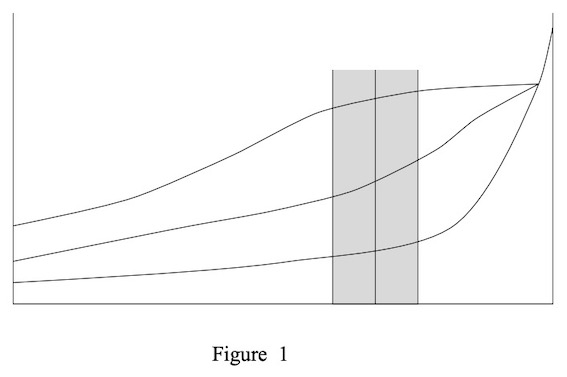
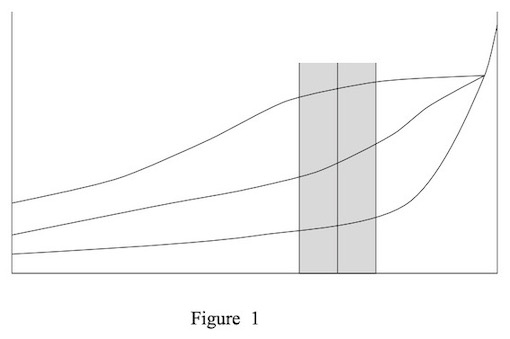
암달의 법칙 문서를 대폭 업데이트하라

Changed region(s): [[0.3824, 0.9145, 0.4706, 0.9735]]

diff --git a/_wiki/amdahl-s-law.md b/_wiki/amdahl-s-law.md
@@ -1,56 +1,241 @@
 ---
 layout  : wiki
 title   : 암달의 법칙 (Amdahl's law)
-summary : 
+summary : S = 1 / ((1-f) + f/s)
 date    : 2020-06-19 23:31:46 +0900
-updated : 2020-06-21 01:02:04 +0900
-tag     : 
+updated : 2020-06-21 11:36:04 +0900
+tag     : performance proverb law
 toc     : true
-public  : false
+public  : true
 parent  : [[proverb]]
 latex   : true
 ---
 * TOC
 {:toc}
 
-## 개요
+## 역사
 
-- 진 암달(Gene Amdahl, 1922 ~ 2015)
-    - 미국의 컴퓨터 공학자.
-    - IBM에서 메인프레임 개발에 크게 공헌했다.
+Gene Amdahl, 1922 ~ 2015
+
+- 미국의 컴퓨터 공학자.
+- IBM에서 메인프레임 개발에 크게 공헌했다.
+
+암달의 법칙
+
+- "Validity of the single processor approach to achieving large scale computing capabilitie"
+    - AFIPS spring joint computer conference, 1967
+    - [pdf][pdf1], [pdf][pdf2]
+- 유명한 수식은 논문에는 포함되어 있지 않다.
+- 약 2~3장 분량의 짧은 논문이고, 읽어보면 단순한 그래프 하나가 첨부되어 있다.
+
+![]( /post-img/amdahl-s-law/figure.jpg )
+
+다음은 암달의 논문에 수록된 그래프를 SSCS News의 에디터들이 다시 그린 것이다.
+
+![]( /post-img/amdahl-s-law/new-figure.jpg )
+
+
 
 ## 정의
 
-전체 작업의 $$P$$%에 해당하는 부분의 성능을 $$S$$배 향상시켰을 때, 전체의 성능 향상 최대값은 다음과 같다.
+>
+Amdahl' s Law summarizes the performance improvement of some process, such as a computer program. It considers that in order to improve performance (time to complete the process), only a part of the entire process is usually improved. It shows that the improvement is limited by the fraction of time the improved part is used. It can be stated in terms of two parameters: , the fraction of time spent in the improved part, and the speedup , how many times faster the improved part performs. Amdahl's Law gives how many times faster the entire process will be as $$ S_\text{overall} = { 1 \over (1-f) + \frac{f}{s} }$$.
+
+위의 글은 Wolfram Demonstrations Project Amdahl's Law의 글을 인용한 것이다.[^wolfram-demo]
+
+내용을 정리해 보자면 다음과 같다.
+
+**암달의 법칙은 컴퓨터 프로그램 같은 프로세스의 성능 향상에 대한 정보를 제공한다.**
+
+- 암달의 법칙에서 다루는 성능(performance)은 시간이 기준이다.
+    - 프로세스 완료까지의 소요 시간.
+- 일반적으로 성능을 향상시키기 위해, 전체가 아닌 일부 프로세스의 개선 작업이 이루어지곤 한다.
+    - 개선된 부분은 시스템의 일부이므로, 사용되는 시간의 비율 때문에 개선에 한계점이 있다.
+
+**암달의 법칙은 두 개의 매개변수로 이러한 현상을 설명한다.**
+
+- $$f$$: 전체 시스템 시간에서 개선된 부분이 차지하고 있는 시간의 비율.
+- $$S$$: 성능이 몇 배 향상됐는지.
+
+**암달의 법칙은 이를 통해 전체 프로세스가 몇 배 빨라졌는지를 다음 식으로 보여준다.**
+
+$$ S_\text{latency} = { 1 \over (1-f) + \frac{f}{s} }$$
+
+### 예제: 함수 하나의 성능을 2배로 개선한 결과
+
+다음과 같은 프로파일 정보가 있다고 하자.
+
+| 항목                    | 수행 시간 |
+|-------------------------|-----------|
+| `execute` 함수          | 60분      |
+| `execute`외의 모든 부분 | 4분       |
+| 전체 프로그램           | 10분      |
+
+그래서 A 개발자가 `execute` 함수를 2배 빠르게 개선해서, 3분 만에 끝나게 만들었다고 하자.
+
+이 정보를 통해 두 파라미터의 값이 다음과 같다는 사실을 알 수 있다.
+
+- 전체 시스템에서 `execute`의 비율. $$f = {6 \over 10} = 0.6 $$.
+- `execute`가 몇 배 빨라졌는지. $$s = 2$$.
+
+이제 식에 대입하면 된다.
 
 $$
-S_{\text{latency}}(s) = { 1 \over (1-p) + \frac{p}{s} }
+S = { 1 \over ( 1 - 0.6 ) + \frac{0.6}{2} } = { 1 \over 0.7 } = 1.4285...
 $$
 
+`execute`를 2배 빠르게 만든 결과 시스템 전체의 성능이 $$10 \over 7$$배, 즉 약 `1.4285...`배 향상됐다는 것을 알 수 있다.
 
-## From: Beautiful Code
+개선 작업 이후의 타임 테이블을 다음과 같이 작성해 보면 간단하게 식을 검증해 볼 수 있다.
+
+| 항목                    | 수행 시간(before) | 수행 시간(after)    |
+|-------------------------|-------------------|---------------------|
+| `execute`외의 모든 부분 | 4분               | 4분 (변하지 않았음) |
+| `execute` 함수          | 6분               | 3분 (2배 빨라짐)    |
+| 전체 프로그램           | 10분              | 7분                 |
+
+전체 프로그램의 수행 시간이 `10`분에서 `7`분이 되었으므로 $$10 \over 7$$배로 성능이 향상됐다.
+
+### 예제: 성능 향상의 한계
+
+한편, A 개발자의 옆 팀에서 일하고 있던 B 개발자는 `execute` 함수가 필요없다는 사실을 발견했다.
+
+그래서 `execute` 함수의 내용을 삭제해서 아무 일도 하지 않게 만들었고, 전체 수행시간이 4분으로 감소됐다고 하자.
+
+그렇다면 시스템 전체의 성능은 $$10 \over 4$$ 배, 즉 `2.5`배 향상되었을 것이다.
+
+| 항목                    | 수행 시간(before) | 수행 시간(after)            |
+|-------------------------|-------------------|-----------------------------|
+| `execute`외의 모든 부분 | 4분               | 4분 (변하지 않았음)         |
+| `execute` 함수          | 6분               | 0분 (더이상 빨라질 수 없음) |
+| 전체 프로그램           | 10분              | 4분                         |
+
+식으로도 나타내 보자.
+
+- 전체 시스템에서 `execute`의 비율. $$f = {6 \over 10} = 0.6 $$.
+- `execute`가 몇 배 빨라졌는지. $$s = \lim_{n \to \infty} n$$.
+
+$$
+S = \lim_{n \to \infty}{ 1 \over ( 1 - 0.6 ) + \frac{0.6}{n} } = { 1 \over 0.4 } = 2.5
+$$
+
+이 결과를 통해 `execute` 함수를 개선해서 얻을 수 있는 시스템 전체의 성능 향상 한계가 `2.5`배라는 사실을 알 수 있다.
+
+## 병렬 처리 버전
+
+위의 식은 두 파라미터의 정의를 교체하면 병렬 버전으로도 의미를 갖는다.
+
+$$ S_\text{latency} = { 1 \over (1-f) + \frac{f}{n} } $$
+
+- $$f$$: 전체 시스템 시간에서 병렬화 가능한 부분이 차지하고 있는 시간의 비율.
+- $$n$$: 병렬화 (프로세서) 개수.
+
+이를 통해 이론적인 성능 향상의 최대값은 병렬화 가능한 부분이 얼마나 차지하는지에 영향을 받는다는 것을 알 수 있다.
+
+## 인용
+### From: 위키백과
+
+다음은 [영문 위키백과 Amdahl's law]( https://en.wikipedia.org/wiki/Amdahl%27s_law )에 첨부된 이미지이다.
+
+![]( /post-img/amdahl-s-law/800px-AmdahlsLaw.svg.png )
+
+> The theoretical speedup of the latency of the execution of a program as a function of the number of processors executing it, according to Amdahl's law. The speedup is limited by the serial part of the program. For example, if 95% of the program can be parallelized, the theoretical maximum speedup using parallel computing would be 20 times.
+
+[한국어 위키백과 암달의 법칙]( https://ko.wikipedia.org/wiki/%EC%95%94%EB%8B%AC%EC%9D%98_%EB%B2%95%EC%B9%99 )에는 다음과 같이 번역되어 있다.
+
+> 병렬 컴퓨팅에서 멀티 프로세서를 사용할 때 프로그램의 성능향상은 프로그램의 순차적인 부분에 의해 제한된다. 예를 들면, 프로그램의 95%가 병렬화 할 수 있다면 이론적인 최대 성능 향상은 아무리 많은 프로세서를 사용하더라도 최대 20배로 제한된다.
+
+### From: 프로그래머가 몰랐던 멀티코어 CPU 이야기
+
+- 암달의 법칙의 심오한 의미
+
+> 이 문제는 컴퓨터 공학에서 많은 것을 생각하게 해준다.
+아무리 최적화를 하더라도 이 최적화로부터 영향받지 않는 다른 부분으로 그 효과는 제한적일 수 있다는 것이다.
+이것이 바로 암달의 법칙(Amdahl's law)이다.
+>
+> (중략)
+>
+> 암달의 법칙은 간단하지만, 꽤 심오한 의미가 있다.
+프로그래머가 프로그램 성능을 개선할 때 헛된 곳에 시간을 낭비하지 말고 가장 많은 시간이 소요되는 곳에 집중해야 함을 말한다.
+프로세서 설계자 역시 자신이 최적화하려는 부분이 전체에서 얼마나 중요한지 잘 생각하고 우선순위를 결정해야 한다.
+결국 2장에서 이야기한 컴퓨터 구조 설계의 가장 중요한 법칙인, '흔한 경우를 빠르게 하라(Make the common case fast)'와 일맥상통한다.
+[^minjang-64]
+
+- 병렬 프로그래밍 버전
+
+> 따라서 암달의 법칙, 수식 4-1을 병렬 프로그래밍 버전으로 고치면 다음과 같다.
+>
+> $$ 1 \over (1-P) + \frac{P}{N} $$
+>
+> 수식 4-2에서 P는 전체 프로그램 중 병렬화 가능한 부분, N은 프로세서 개수를 가리킨다.
+물론 이 공식은 프로세서 N이 완벽하게 P만큼의 일을 병렬 처리한다는 매우 이상적인 가정을 하고 있다.
+암달의 법칙으로 병렬화 가능한 부분이 80%, 60%, 40%일 때 얻을 수 있는 이상적인 성능 향상 곡선을 생각해보자.
+그림 4-1에 이 결과가 나타나 있다.  
+> ![]( /post-img/amdahl-s-law/figure-4-1.jpg )  
+> 그림 4-1에서 보듯이 만약 자신의 프로그램 중 40%만 병렬화가 가능하다면 아무리 많은 프로세서가 있다 하더라도 성능 향상은 채 두 배도 될 수 없다. 또 80% 이상 병렬화 할 수 있다해도 성능을 다섯 배 이상 향상시킬 수는 없다.
+>
+> 병렬화 문제에서도 암달의 법칙은 매우 중요한 과제를 준다.
+병렬화 가능한 부분을 효율적으로 병렬화하여 최적의 성능을 얻는 것도 중요하지만,
+무엇보다 병렬화 가능한 부분을 극대화, 다시 말해 직렬로 처리해야 하는 부분($$1-P$$)을 줄이는 것이 핵심이다.
+과학이나 수학 관련 프로그램은 수행 시간의 대부분을 순환문이 차지하며 병렬 가능한 경우가 많다.
+어떤 경우는 완벽히 - 어떤 뮤텍스나 동기화도 필요 없이 - 병렬화가 가능하기도 하고
+어떤 때는 동기화가 필요하기도 하지만,
+어찌 되었든 수행 시간의 대부분이 병렬화로 도움을 얻을 수 있다.
+이런 응용프로그램은 $$1-P$$가 꽤 작다. 그러나 그렇지 않은 프로그램 역시 많다.
+컴파일러나 운영체제의 주요 코드는 연산이 직렬로 수행되는 경우가 많다.
+[^minjang-66]
+
+### From: Beautiful Code
 
 > 행렬 자료를 분할하다 보니 소위 암달의 법칙(Amdahl's law)이 말하는 규모가변성 문제가 금세 드러나게 되었다.
 암달의 법칙이란 한 계산에서 순차적인 부분에 소요되는 시간이 전체 수행 시간의 최소 하계를(따라서 병렬 처리로 얻을 수 있는 이득을) 결정한다는 것이다.
 바꾸어 말하자면, 대부분의 게산들이 독립적으로 수행되지 않는 한, 하드웨어 구성에 프로세서들을 추가한다고 해도 처리가 더 빨라지지는 않는 이득체감 지점에 도달한다는 것이다.
 [^beautiful-312]
 
+### From: 자바 병렬 프로그래밍
+
+> 대부분의 병렬 프로그램에는 병렬화할 수 있는 작업과 순차적으로 처리해야 하는 작업이 뒤섞인 단위 작업의 덩어리를 갖고 있다. 암달의 법칙(Amdahl's law)을 사용하면 병렬 작업과 순차 작업의 비율에 따라 하드웨어 자원을 추가로 투입했을 때 이론적으로 속도가 얼마나 빨라질지에 대한 예측 값을 얻을 수 있다. 암달의 법칙에 따르면, 순차적으로 실행돼야 하는 작업의 비율을 $$F$$라 하고 하드웨어에 꽂혀 있는 프로세서의 개수를 $$N$$이라고 할 때, 다음의 수식에 해당하는 정도까지 속도를 증가시킬 수 있다.
+>
+> $$ \text{ Speedup } \le { 1 \over F + \frac{ (1-F) }{N} } $$
+>
+> $$N$$이 무한대까지 증가할수록 속도 증가량은 최고 $$ 1/F$$ 까지 증가한다.
+$$1/F$$라는 속도 증가량은 순차적으로 실행돼야 하는 부분이 전체 작업의 50%를 차지한다고 할 때 프로세서를 아무리 많이 꽂는다 해도 겨우 두 배 빨라진다는 결과이다.
+그리고 순차적으로 실행해야 하는 부분이 전체의 10%에 해당한다면 최고 10배까지 속도를 증가시킬 수 있다고 예측할 수 있다.
+암달의 법칙을 활용하면 작업을 순차적으로 처리하는 부분이 많아질 때 느려지는 정도가 얼마만큼인지를 수치화할 수 있다.
+하드웨어에 CPU가 10개 꽂혀 있을 때, 10%의 순차 작업을 갖고 있는 프로그램은 최고 5.3배 만큼의 속도를 증가(CPU 활용도는 5.3배/10개 = 0.53, 즉 53%)시킬 수 있다.
+같은 상황에서 CPU를 100개를 꽂는다면 최대 9.2배까지 속도가 증가(CPU 활용도는 9.2배/100개 = 0.092, 즉 9.2%)할 것이라고 예상할 수 있다. 그러다 보니, 속도를 최대 10배까지 증가시키려면 CPU의 활용도가 너무나 비효율적으로 떨어질 수밖에 없다.
+>
+> 그림 11.1을 보면 순차적인 작업의 비율과 프로세서의 개수를 놓고 볼 때 프로세서 활용도가 어떻게 변하는지를 한눈에 볼 수 있다(CPU 활용도는 속도 증가량을 프로세서의 개수로 나눈 값이라고 정의한다). 암달의 법칙에 따르면 프로세서의 개수가 증가하면 할 수록, 순차적으로 실행해야 하는 부분이 아주 조금이라도 늘어나면 프로세서 개수에 비해 얻을 수 있는 속도 증가량이 크게 떨어진다.  
+> ![]( /post-img/amdahl-s-law/figure-11-1.jpg )  
+> 애플리케이션의 작업을 작은 단위 작업으로 분할하는 방법에 대해서는 이미 6장에서 살펴본 바가 있다.
+하지만 멀티프로세서 시스템에서 애플리케이션을 실행할 때 속도가 얼마만큼 빨라질 것인지에 대한 예측을 해보려면, 애플리케이션 내부에서 순차적으로 처리해야 하는 작업이 얼마나 되는지를 먼저 확인해야 한다.
+[^brian-333]
+
 
 ## 참고문헌
 
 도서
 
-- Beautiful Code / 찰스 페졸드 외 37 저 / 한빛미디어 / 초판발행 2007년 12월 17일
+- Beautiful Code / 찰스 페졸드 외 37 저 / 한빛미디어 / 초판발행 2007년 12월 17일 (2020년 기준 절판)
+- 자바 병렬 프로그래밍 / 브라이언 게츠 등저 / 에이콘출판사 / 2쇄 발행 2016년 03월 22일 / 원제: Java Concurrency in Practice
+- 프로그래머가 몰랐던 멀티코어 CPU 이야기 / 김민장 저 / 한빛미디어 / 2010년 05월 28일 (2020년 기준 절판)
 
 웹 문서
 
-- [Validity of the single processor approach to achieving large scale computing capabilitie - Gene M. Amdahl (PDF)]( https://www3.cs.stonybrook.edu/~rezaul/Spring-2012/CSE613/reading/Amdahl-1967.pdf )
+- [Validity of the single processor approach to achieving large scale computing capabilitie - Gene M. Amdahl (PDF)][pdf1]
     - [백업 PDF]( /post-img/amdahl-s-law/Amdahl-1967.pdf )
-- [Validity of the single processor approach to achieving large scale computing capabilitie - Gene M. Amdahl (PDF)]( https://www-inst.eecs.berkeley.edu//~n252/paper/Amdahl.pdf ) - Guihai Chen이 옮겨 적은 버전. (This paper is retyped as the present form by Guihai Chen He wishes you would enjoy reading this historic)
+- [Validity of the single processor approach to achieving large scale computing capabilitie - Gene M. Amdahl (PDF)][pdf2] - Guihai Chen이 옮겨 적은 버전. (This paper is retyped as the present form by Guihai Chen He wishes you would enjoy reading this historic)
     - [백업 PDF]( /post-img/amdahl-s-law/Amdahl.pdf )
-- [Amdahl's Law (WOLFRAM Demonstrations Project)](https://demonstrations.wolfram.com/AmdahlsLaw/ )
 
 ## 주석
 
 [^beautiful-312]: Beautiful Code. 14장. 312쪽.
+[^wolfram-demo]: [Amdahl's Law (WOLFRAM Demonstrations Project)][wolfram-demo]
+[^minjang-64]: 프로그래머가 몰랐던 멀티코어 CPU 이야기. 4장. 64쪽.
+[^minjang-66]: 프로그래머가 몰랐던 멀티코어 CPU 이야기. 4장. 66쪽.
+[^brian-333]: 자바 병렬 프로그래밍. 11.2장. 333쪽.
+
+[wolfram-demo]: https://demonstrations.wolfram.com/AmdahlsLaw/
+[pdf1]: https://www3.cs.stonybrook.edu/~rezaul/Spring-2012/CSE613/reading/Amdahl-1967.pdf
+[pdf2]: https://www-inst.eecs.berkeley.edu//~n252/paper/Amdahl.pdf
 

diff --git a/_wiki/index.md b/_wiki/index.md
@@ -221,7 +221,7 @@ regenerate: true
 
 * [[ACID]]
 * [[airplain-rule]]
-* amdahl-s-law
+* [[amdahl-s-law]]
 * [[Boy-Scout-Rule]]
 * [[Brooks-s-law]]
 * [[CAP-theorem]]
